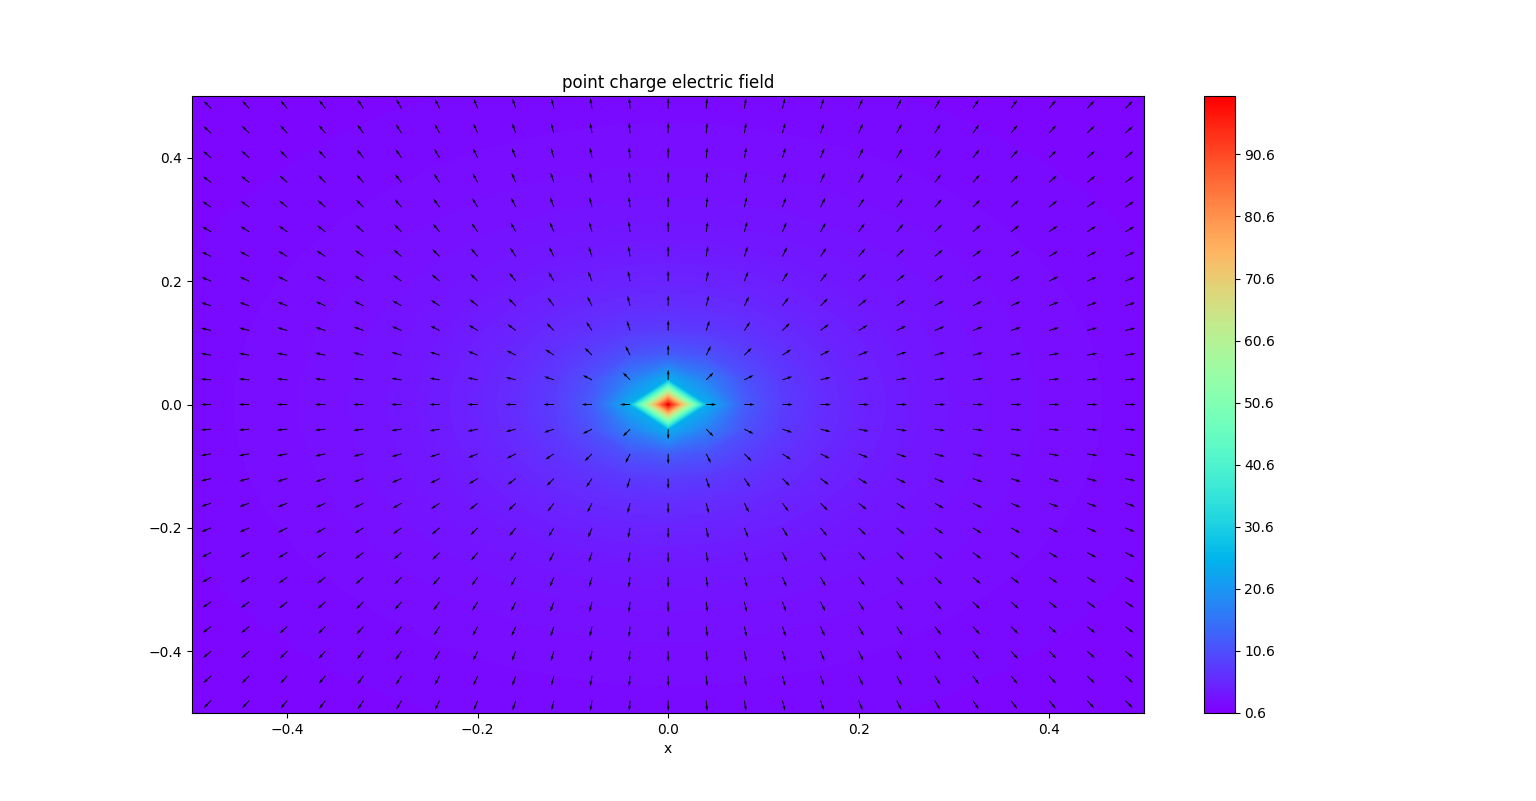
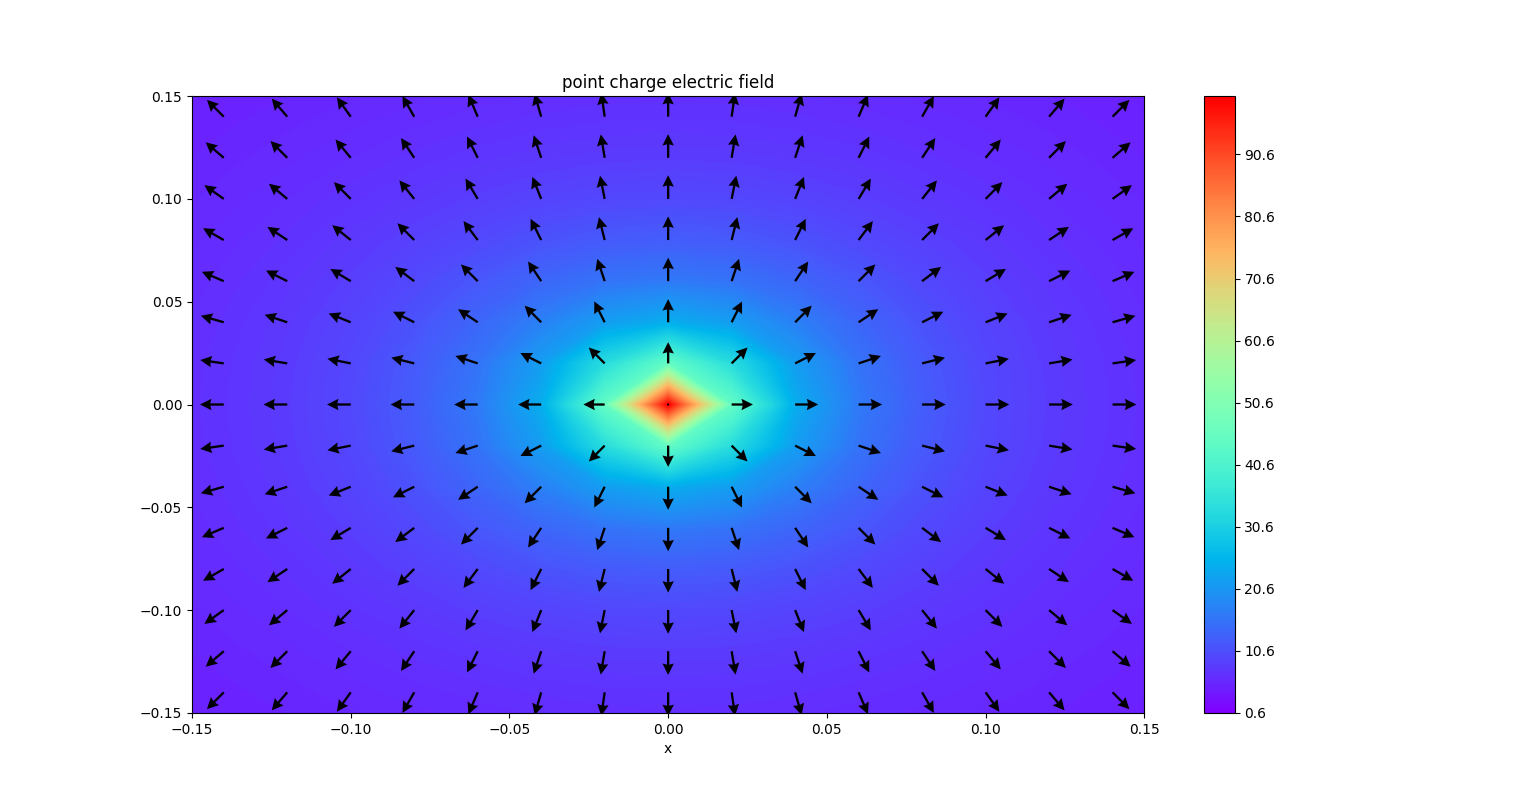
test

diff --git a/partial_differential_equation/finite_parallel_plate_capacitor.py b/partial_differential_equation/finite_parallel_plate_capacitor.py
@@ -1,0 +1,53 @@
+import numpy as np
+import matplotlib.pyplot as plt
+
+N=11
+x=np.linspace(0,10,N)
+y=np.linspace(0,10,N)
+xx,yy=np.meshgrid(x,y)
+
+
+#BC
+V=np.zeros((11,11),dtype=float)
+
+iteration=0
+while(iteration<10):
+    V_old=V
+    for i in range(1,N-1):
+        for j in range(1,N-1):
+            #setting the parallel plate capacitor as the constant
+            if j==3 and i>=3 and i<=7:
+                V[j,i]=-1
+            elif j==7 and i>=3 and i<=7:
+                V[j,i]=1
+            #relaxation method to solve the pde
+            else:
+                V[j,i]=0.25*(V[j,i-1]+V[j-1,i]+V[j+1,i]+V[j,i+1])
+    iteration+=1
+    V_new=V
+    print(iteration)
+    # #check the error before and after the iteration
+    # if iteration%1==0:
+    #     error=np.zeros((N,N),dtype=float)
+    #     for i in range(0,N):
+    #         for j in range(0,N):
+    #             error[j,i]=abs(V_new[j,i]-V_old[j,i])
+    #     print(error)
+    #     if error.all()<10**-50:
+    #         break
+    
+
+        
+            
+fig=plt.figure(figsize=(18,6))
+ax=fig.add_subplot(121)
+z=V
+plt.contourf(xx,yy,z,cmap='rainbow',levels=51)
+plt.colorbar()
+ax.set_title('V plane contour')
+ax.set_xlabel('x')
+ax.set_ylabel('y')
+
+ax1=fig.add_subplot(122)
+ax1.plot(x,V[:,2])
+plt.show()   

diff --git a/partial_differential_equation/point_charge_electric_field.py b/partial_differential_equation/point_charge_electric_field.py
@@ -22,10 +22,10 @@ xx,yy=np.meshgrid(x,y)
 fig=plt.figure()
 ax = fig.add_subplot(1,1,1)
 c=ax.contourf(xx,yy,electric_potential(xx, yy),levels=501,cmap='rainbow')
-ax.quiver(xx,yy,dVx(xx,yy),dVy(xx,yy),width=0.001)
+ax.quiver(xx,yy,dVx(xx,yy),dVy(xx,yy),scale=40,headwidth=5)
 fig.colorbar(c, ax=ax)
 ax.set_title('point charge electric field')
 ax.set_xlabel('x')
-ax.set_xlim(-0.5,0.5)
-ax.set_ylim(-0.5,0.5)
+ax.set_xlim(-0.15,0.15)
+ax.set_ylim(-0.15,0.15)
 plt.show()

diff --git a/partial_differential_equation/poisson's_equation_inversion_matrix_method(2D).py b/partial_differential_equation/poisson's_equation_inversion_matrix_method(2D).py
@@ -33,6 +33,7 @@ h=L/(N-1)
 lam=1
 x=np.linspace(0,L,N)
 A=coefficient_matrix(N)
+print(A)
 rho=rho(N,h,lam)
 V=(-h**2*np.linalg.inv(A)@rho)
 
